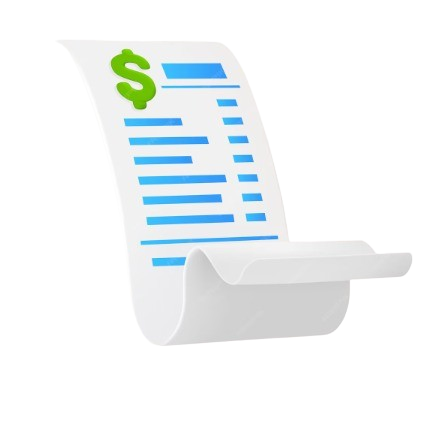
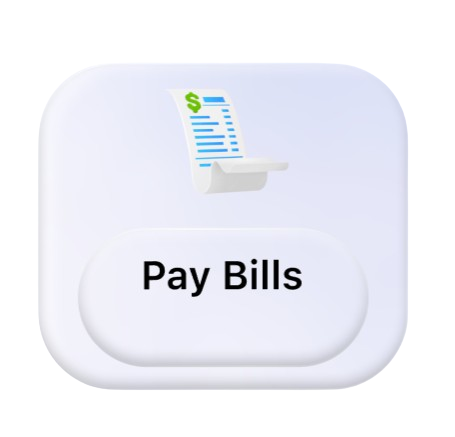
Updated action items molecule and button/image atoms

Changed region(s): [[0.088, 0.0892, 0.9391, 0.8924]]

diff --git a/lib/components/molecules/action_items.dart b/lib/components/molecules/action_items.dart
@@ -19,15 +19,17 @@ class ActionItems extends StatefulWidget {
         ActionItemData(
           title: "Send Money",
           imagePath: "assets/Send_money.png",
+          isFullImage: true,
         ),
         ActionItemData(
           title: "Pay Bills",
           imagePath: "assets/Pay_bills.png",
+          isFullImage: true,
         ),
         ActionItemData(
           title: "Product &\nServices",
           imagePath: "assets/Product_services.png",
-          showBadge: true,
+          isFullImage: true,
         ),
       ];
 }
@@ -69,9 +71,9 @@ class _ActionItemsState extends State<ActionItems> {
           children: [
             Container(
               width: 100,
-              height: 130, // Uniform height for all tiles
+              height: 100, // Uniform height for button style
               decoration: BoxDecoration(
-                color: Colors.white.withOpacity(0.9),
+                color: Colors.transparent,
                 borderRadius: BorderRadius.circular(24),
                 boxShadow: [
                   BoxShadow(
@@ -89,52 +91,20 @@ class _ActionItemsState extends State<ActionItems> {
                       child: Column(
                         mainAxisAlignment: MainAxisAlignment.center,
                         children: [
-                          const SizedBox(height: 8),
                           ic.Icon(
                             item.icon,
                             imagePath: item.imagePath,
-                            size: 40,
+                            size: 100, // Full size for the button
                             color: item.iconColor,
                           ),
                         ],
                       ),
                     ),
                   ),
-                  // Text Area with fixed bottom alignment
-                  Container(
-                    width: double.infinity,
-                    padding: const EdgeInsets.symmetric(vertical: 10, horizontal: 4),
-                    decoration: BoxDecoration(
-                      color: Colors.white,
-                      borderRadius: const BorderRadius.only(
-                        bottomLeft: Radius.circular(24),
-                        bottomRight: Radius.circular(24),
-                      ),
-                      boxShadow: [
-                        BoxShadow(
-                          color: Colors.black.withOpacity(0.02),
-                          blurRadius: 2,
-                          offset: const Offset(0, -1),
-                        ),
-                      ],
-                    ),
-                    child: Text(
-                      item.title,
-                      textAlign: TextAlign.center,
-                      maxLines: 2,
-                      overflow: TextOverflow.ellipsis,
-                      style: const TextStyle(
-                        color: Color(0xFF1F2937),
-                        fontSize: 11, // Adjusted for better fit
-                        fontWeight: FontWeight.w700,
-                        height: 1.1,
-                      ),
-                    ),
-                  ),
                 ],
               ),
             ),
-            if (item.showBadge)
+            if (item.showBadge && !item.isFullImage)
               Positioned(
                 top: -10,
                 right: -5,
@@ -178,6 +148,7 @@ class ActionItemData {
   final String? imagePath;
   final Color? iconColor;
   final bool showBadge;
+  final bool isFullImage;
 
   ActionItemData({
     required this.title,
@@ -185,5 +156,6 @@ class ActionItemData {
     this.imagePath,
     this.iconColor,
     this.showBadge = false,
+    this.isFullImage = false,
   });
 }

diff --git a/lib/components/atoms/text_button.dart b/lib/components/atoms/text_button.dart
@@ -7,7 +7,6 @@ class TextButton extends m.StatefulWidget {
   final double fontSize;
   final m.FontWeight fontWeight;
   final bool underline;
-  final double? width;
 
   const TextButton({
     m.Key? key,
@@ -17,7 +16,6 @@ class TextButton extends m.StatefulWidget {
     this.fontSize = 16,
     this.fontWeight = m.FontWeight.normal,
     this.underline = false,
-    this.width,
   }) : super(key: key);
 
   @override
@@ -29,26 +27,23 @@ class _TextButtonState extends m.State<TextButton> {
 
   @override
   m.Widget build(m.BuildContext context) {
-    return m.SizedBox(
-      width: widget.width,
-      child: m.MouseRegion(
-        onEnter: (_) => setState(() => _isHovering = true),
-        onExit: (_) => setState(() => _isHovering = false),
-        cursor: m.SystemMouseCursors.click,
-        child: m.GestureDetector(
-          onTap: widget.onPressed,
-          child: m.AnimatedDefaultTextStyle(
-            duration: const Duration(milliseconds: 200),
-            style: m.TextStyle(
-              color: _isHovering ? widget.color.withOpacity(0.7) : widget.color,
-              fontSize: widget.fontSize,
-              fontWeight: widget.fontWeight,
-              decoration: widget.underline || _isHovering
-                  ? m.TextDecoration.underline
-                  : m.TextDecoration.none,
-            ),
-            child: m.Text(widget.text),
+    return m.MouseRegion(
+      onEnter: (_) => setState(() => _isHovering = true),
+      onExit: (_) => setState(() => _isHovering = false),
+      cursor: m.SystemMouseCursors.click,
+      child: m.GestureDetector(
+        onTap: widget.onPressed,
+        child: m.AnimatedDefaultTextStyle(
+          duration: const Duration(milliseconds: 200),
+          style: m.TextStyle(
+            color: _isHovering ? widget.color.withOpacity(0.7) : widget.color,
+            fontSize: widget.fontSize,
+            fontWeight: widget.fontWeight,
+            decoration: widget.underline || _isHovering
+                ? m.TextDecoration.underline
+                : m.TextDecoration.none,
           ),
+          child: m.Text(widget.text),
         ),
       ),
     );

diff --git a/lib/components/atoms/image.dart b/lib/components/atoms/image.dart
@@ -37,7 +37,7 @@ class Image extends m.StatelessWidget {
                 : [],
           ),
           child: m.FittedBox(
-            fit: m.BoxFit.contain,
+            fit: m.BoxFit.fill,
             alignment: m.Alignment.center,
             child: m.Row(
               mainAxisSize: m.MainAxisSize.min,
